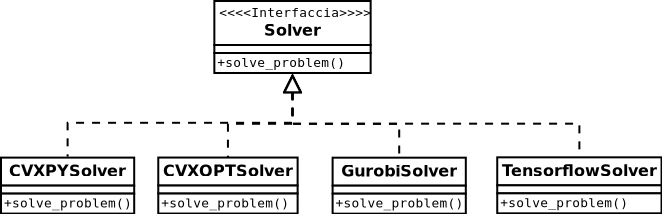
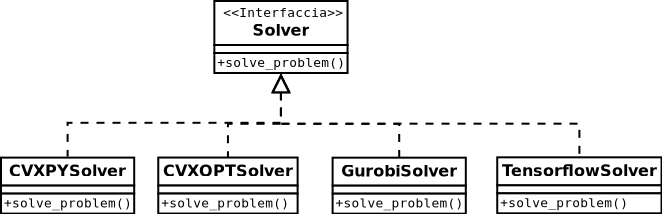
Correzioni Secondo Capitolo

diff --git a/tesi/Tesi.tex b/tesi/Tesi.tex
@@ -186,7 +186,7 @@ Formalmente il grado di verità è determinato da un'opportuna \textit{funzione 
 \noindent 
 %La $x$ rappresenta i predicati da valutare ed appartenenti a un insieme di predicati $U$. 
 dove la $\mu$ rappresenta il valore di appartenenza dell'elemento all'insieme fuzzy $A$ considerato ed è un valore reale compreso tra 0 e 1. 
-Per $\mu_A(x)$ pari a 1 l’elemento è certamente incluso nell’ insieme, per $\mu_A(x)$ pari a 0
+Per $\mu_A(x)$ pari a 1 l’elemento è certamente incluso nell’insieme, per $\mu_A(x)$ pari a 0
 l’elemento non è per niente incluso nell’ insieme (questi due valori corrispondono alla teoria classica degli insiemi), mentre per tutti i valori compresi tra 0 e 1 l’appartenenza può essere più o meno forte.
 
 \bigskip
@@ -270,7 +270,7 @@ Definiamo due insiemi fuzzy, $A$ e $B$ (ad esempio come in Figura \ref{fig:Insie
         }
         \caption{Insieme $B$}
     \end{subfigure}
-    \caption{Grafico delle funzioni di appartenenza degli insiemi fuzzy utlizzati per esemplificare le principali operazioni tra insiemi fuzzy.}
+    \caption{Grafico delle funzioni di appartenenza degli insiemi fuzzy utilizzati per esemplificare le principali operazioni tra insiemi fuzzy.}
     \label{fig:Insiemi Fuzzy}
 \end{figure}
 
@@ -317,7 +317,7 @@ L'unione $A \cup B$ di due insiemi fuzzy $A$ e $B$ risulta essere anch'essa un i
 
     \end{tikzpicture}
     }
-    \caption{Unione tra insiemi fuzzy. In viola viene rappresentata la funzione di apparteneza dell'unione degli insiemi $A$ e $B$ mostrati in Figura \ref{fig:Insiemi Fuzzy}.}
+    \caption{Unione tra insiemi fuzzy. In viola viene rappresentata la funzione di appartenenza dell'unione degli insiemi $A$ e $B$ mostrati in Figura \ref{fig:Insiemi Fuzzy}.}
     \label{fig:Unione_Insiemi_Fuzzy}   
 
 \end{figure}
@@ -473,7 +473,7 @@ Bisogna trovare lo \textit{Sweet spot} \cite{machine_learning_oreilly}, ovvero i
 \begin{figure}[ht]
     \centering
     \includegraphics[scale = 0.35]{images/sweet_spot.png}
-    \caption{Compromesso tra precisione nella predizione e complessità del modello \cite{figure_copyright}. Nell'asse delle ascisse è rappresentata la complessità del modello, mentre nell'asse delle ordinate la precisione nella predizione dei dati. La curva blu rappresenta la predizione sul training set, che tende ad essere più precisa più il modello è complesso. La curva verde rappresenta la predizione su nuovi set di dati, che come possiamo vedere tende a essere meno precisa quando il modello è troppo complesso e si adatta in maniera eccessiva al training set.}
+    \caption{Compromesso tra precisione nella predizione e complessità del modello \cite{figure_copyright}. Nell'asse delle ascisse è rappresentata la complessità del modello, mentre nell'asse delle ordinate la precisione nella predizione dei dati. La curva blu rappresenta la predizione sul training set, che tende a essere più precisa più il modello è complesso. La curva verde rappresenta la predizione su nuovi set di dati, che come possiamo vedere tende a essere meno precisa quando il modello è troppo complesso e si adatta in maniera eccessiva al training set.}
     \label{fig:sweet_spot}
 
 \end{figure}
@@ -528,7 +528,7 @@ Nel caso della regressione, la funzione è definita come segue:
 \end{equation*}
 
 \noindent dove \textit{n} è il numero di caratteristiche, $x_i$ sono le caratteristiche, $w_i$ i pesi da attribuire a esse, e $b$ un termine noto.
-Il valore $y$ ottenuto applicando la funzione lineare alle caratteristiche di un particolare caso rappresenta la predzione per l'etichetta corrispondente.
+Il valore $y$ ottenuto applicando la funzione lineare alle caratteristiche di un particolare caso rappresenta la predizione per l'etichetta corrispondente.
 
 Riprendendo l'esempio precedente, supponiamo di voler quantificare il numero di giorni necessari per guarire un paziente malato. Per semplicità supponiamo di avere come unica caratteristica l'età del paziente. In Figura \ref{fig:linear_regression} è rappresentato il dataset dei pazienti. \`E possibile tracciare una retta denominata \textit{retta di regressione} che approssima tutti i punti nel dataset.
 
@@ -564,7 +564,7 @@ I controlli sulle variabili sono spesso di tipo binario.
 
 \end{figure}
 
-Ad esempio supponiamo di voler distinguere un animale tra: falco, pinguino, delfino e orso. Nell'esempio in Figura \ref{fig:decision_tree} l'algoritmo parte dalla domanda ``Ha le piume?''. In questo modo abbiamo definito il primo nodo dell'albero. Sapendo che, in questo caso, i test previsti restituiscono un output binario, da questo primo nodo si diramano due sotto-alberi rapprensentati dalle categorie ``Ha le piume'' e ``Non ha le piume''. Mediante un'ulteriore domanda si possono distinguere gli animali. Per esempio seguendo la domanda ``Può volare?'', se la risposta è sì, si sta parlando del falco, ovvero l'unico animale tra i quattro che ha le piume e che può volare, altrimenti si tratta del pinguino. Seguendo questa logica è posssibile arrivare a fare delle predizioni. 
+Ad esempio supponiamo di voler distinguere un animale tra: falco, pinguino, delfino e orso. Nell'esempio in Figura \ref{fig:decision_tree} l'algoritmo parte dalla domanda ``Ha le piume?''. In questo modo abbiamo definito il primo nodo dell'albero. Sapendo che, in questo caso, i test previsti restituiscono un output binario, da questo primo nodo si diramano due sotto-alberi rappresentati dalle categorie ``Ha le piume'' e ``Non ha le piume''. Mediante un'ulteriore domanda si possono distinguere gli animali. Per esempio seguendo la domanda ``Può volare?'', se la risposta è sì, si sta parlando del falco, ovvero l'unico animale tra i quattro che ha le piume e che può volare, altrimenti si tratta del pinguino. Seguendo questa logica è possibile arrivare a fare delle predizioni. 
 L'esempio è chiaramente fittizio. Nella realtà i dati che vengono analizzati hanno spesso valori di tipo continuo, con test come ``\textit{x} è minore di \textit{k}?'', dove \textit{x} è la caratteristica considerata e \textit{k} una costante.
 
 I problemi di \textit{overfitting} e \textit{underfitting} sono problemi ricorrenti che si presentano anche nel caso degli alberi di decisione. Infatti se viene costruito un albero troppo dettagliato, e quindi con un elevato livello di profondità, il modello tende ad adattarsi in maniera eccessiva ai dati usati in fase di allenamento generando un problema di \textit{overfitting}.
@@ -608,7 +608,7 @@ Supponiamo di avere un dataset con oggetti appartenenti a due classi, come in Fi
     \label{fig:svm}
 \end{figure}
 
-Spesso succede che le classi da distinguere non siano linearmente separabili nello spazio in cui è definito il problema originale. Per risolvere questo problema si ricorre alle funzioni \textit{kernel} che sono in grado di mappare dei vettori dallo spazio originale ad uno spazio a dimensionalità più elevata, in cui le immagini risultano linearmente separabili.
+Spesso succede che le classi da distinguere non siano linearmente separabili nello spazio in cui è definito il problema originale. Per risolvere questo problema si ricorre alle funzioni \textit{kernel} che sono in grado di mappare dei vettori dallo spazio originale a uno spazio a dimensionalità più elevata, in cui le immagini risultano linearmente separabili.
 
 \subsection*{Approccio Non Supervisionato}
 Con \textit{Approccio Non Supervisionato} \cite{unsupervised_learning} ci riferiamo a una tecnica di apprendimento automatico che consiste nel fornire in input una serie di dati non etichettati ma che verranno raggruppati sulla base di caratteristiche comuni  per cercare di effettuare delle previsioni su input futuri.
@@ -644,7 +644,7 @@ Quando la macchina prende una decisione otterrà successivamente una “ricompen
 \chapter{Tecnologie e metodologie}
 \label{Capitolo 2}
 \section{\texorpdfstring{$\mu$}{mu}-learn}
-Nel capitolo precedente abbiamo visto alcune tecniche utilizzate nel Machine Learning. L’algoritmo che andremo a descrivere, denominato \textit{$\mu$-learn} e descritto nel dettaglio in \cite{mulearn}, si basa sull’ induzione di insiemi fuzzy e ricade nell’approccio supervisionato, ovvero quella tecnica che necessita di dati preventivamente valutati per effettuare predizioni. In questo caso la predizione è il grado di appartenenza.
+Nel capitolo precedente abbiamo visto alcune tecniche utilizzate nel Machine Learning. L’algoritmo che andremo a descrivere, denominato \textit{$\mu$-learn} e descritto nel dettaglio in \cite{mulearn}, si basa sull’ induzione di insiemi fuzzy e ricade nell’approccio supervisionato, ovvero quella tecnica che necessita di dati preventivamente valutati per effettuare predizioni. In questo caso la predizione è il grado di appartenenza a un insieme fuzzy.
 \bigskip
 
 Supponiamo di avere un campione $X = \{x_1,\dots,x_m\}$, e un insieme di gradi di appartenenza $ M = \{\mu_1,\dots,\mu_m\}$ associati a un generico insieme fuzzy $A$. L'obiettivo di \textit{$\mu$-learn} consiste nel determinare un'approssimazione di $A$ partendo dai valori contenuti in $X$ e $M$.
@@ -654,11 +654,11 @@ Il problema di apprendere $\mu_A$ può essere suddiviso in due parti:
     \item indurre i parametri della funzione di membership $\mu_A$.
 \end{itemize}
 
-\noindent Per fare ciò dobbiamo partire dalle seguenti ipotesi:
+\noindent Per fare ciò dobbiamo partire dalle seguenti ipotesi.
 \begin{itemize}
-    \item  Definiamo il \textit{core} di $A$ come l'insieme di tutti gli elementi dell'universo in corrispondenza dei quali il grado di appartenenza di $A$ è uguale a 1:
+    \item  Definiamo il \textit{core} di $A$ come l'insieme di tutti gli elementi dell'universo $U$ in corrispondenza dei quali il grado di appartenenza di $A$ è uguale a 1:
     \begin{equation*}
-        A_C = \{ x\in U \hspace{0,3cm} |\hspace{0,3cm} \mu_A(x) = 1 \}
+        A_C = \{ x\in U \hspace{0,3cm} |\hspace{0,3cm} \mu_A(x) = 1 \}.
     \end{equation*}
     \noindent Il core di $A$ si può approssimare come l'insieme degli elementi di $U$ le cui immagini mappate tramite una funzione $\Phi: U \to V$ sono incluse in un'ipersfera di centro $a$ e raggio $R$.
 
@@ -709,7 +709,7 @@ ovvero che la distanza della trasformazione di $x_i$ da $a$ è maggiore o uguale
 \begin{equation*}
     \xi_i \ge 0,
 \end{equation*}
-che è già incorporato nel vincolo (\ref{eq:vincolo_3}), e quindi il nostro $x_i$ sarà posizionato all'esterno della sfera.
+che è già incorporato nel vincolo (\ref{eq:vincolo_3}), e quindi il nostro $x_i$ sarà possibilmente posizionato all'esterno della sfera.
 
 Utilizzando la formulazione duale di Wolfe, quello che otteniamo è il seguente problema:
 \begin{equation}
@@ -730,7 +730,7 @@ sottoposto ai vincoli:
 
 \noindent dove $k$ è la funzione kernel associata alla mappatura nello spazio dell'immagine di $\Phi$ (ovvero $k(x_i,x_j) = \Phi(x_i)\cdot\Phi(x_j))$.
 
-Indicando con $^*$ il valore ottimale per una variabile, è possibile dimostrare che per ogni $x$ nel corrispondente dominio vale la seguente proprietà:
+Indicando con $^*$ il valore ottimale per una variabile, è possibile dimostrare che per ogni $x \in U$ vale la seguente proprietà:
 \begin{equation*}
 \begin{split}
     R^{2}(x) = k(x,x) \hspace{0,1cm}- \hspace{0,1cm}&2\displaystyle\sum_{i=1}^{m}(\alpha_{i}^{*}\mu_{i} - \beta_{i}^{*}(1-\mu_{i}))k(x,x_i)\hspace{0,1cm} + \\ 
@@ -742,9 +742,11 @@ Indicando con $^*$ il valore ottimale per una variabile, è possibile dimostrare
 In particolare, la maggior parte dei punti $x$ con un valore di membership $\mu_{A}(x) > \frac{1}{2}$ soddisfanno $R^2(x) \le R^2_1$ dove $R^2_1 = R^2(x_i)$ per qualunque vettore di supporto.
 Apprendere la funzione di membership richiede di trovare il giusto compromesso nella scelta del parametro $C$, così come nei parametri del kernel.
 
-\subsection*{Configurazione degli Iperparametri}
-Nel contensto del Machine Learning si parla spesso di iperparametri. Si definiscono iperparametri quei parametri utilizzati per aver un certo tipo di controllo sul processo di apprendimento. In altre parole, tutti i dati forniti dall'utente che influiscono sul design del modello sono considerati iperparametri. Un primo parametro da considerare è quello della scelta della funzione di kernel.
-Esistono diversi tipi di funzioni di kernel.
+\subsection*{Configurazione degli iperparametri}
+Nel contesto del Machine Learning si parla spesso di iperparametri. Si definiscono iperparametri quei parametri utilizzati per aver un certo tipo di controllo sul processo di apprendimento. 
+% In altre parole, tutti i dati forniti dall'utente che influiscono sul design del modello sono considerati iperparametri. 
+Un primo parametro da considerare è quello della scelta della funzione di kernel.
+Esistono diversi tipi di funzioni di kernel: quelli principalmente utilizzati sono elencati di seguito.
 
 \begin{itemize}
     \item \textbf{Kernel Lineare}. \`E uno dei più semplici e consiste nel prodotto scalare di due vettori:
@@ -752,7 +754,7 @@ Esistono diversi tipi di funzioni di kernel.
         k(x,y) = x \cdot y.
     \end{equation*}
 
-    \item  \textbf{Kernel Polinomiale}. Viene utilizzato per gestire problemi di suddivisione non lineare ed è definito come segue:
+    \item  \textbf{Kernel Polinomiale}. Viene utilizzato per gestire problemi non lineari ed è definito come segue:
     \begin{equation*}
         k(x,y) = (x \cdot y + c)^{d},
     \end{equation*}
@@ -762,7 +764,7 @@ Esistono diversi tipi di funzioni di kernel.
     \begin{equation*}
         k(x,y) = \exp{\bigg(-\frac{\|x-y\|^{2}}{2\sigma^{2}}\bigg)},
     \end{equation*}
-    \noindent dove $\sigma$ è la deviazione standard del kernel. Dato che questo è il kernel utilizzato durante gli esperimenti descritti nel Capitolo \ref{Captiolo 3}, $\sigma$ diventa un parametro chiave da considerare. Prendendo l'esemprio in Figura \ref{fig:parametro_sigma} e una funzione kernel, vediamo come la scelta del parametro $\sigma$ modifichi la forma della funzione di appartenenza. La funzione tratteggiata rappresenta una funzione di apparteneza fissata, dove sull'asse delle ascisse ci sono i valori di $x$, colorati in funzione del valore associato a questa funzione. La curva blu invece rappresenta la funzione di appartenenza appresa a partire dai punti.
+    \noindent dove $\sigma$ è la deviazione standard del kernel. Dato che questo è il kernel utilizzato durante gli esperimenti descritti nel Capitolo \ref{Captiolo 3}, $\sigma$ diventa un parametro chiave da considerare. Prendendo l'esempio in Figura \ref{fig:parametro_sigma} e una funzione kernel, vediamo come la scelta del parametro $\sigma$ modifichi la forma della funzione di appartenenza. La funzione tratteggiata rappresenta una funzione di appartenenza fissata, dove sull'asse delle ascisse ci sono i valori di $x$, colorati in funzione del valore associato a questa funzione. La curva blu invece rappresenta la funzione di appartenenza appresa a partire dai punti.
 
     \begin{figure}[h]
         \begin{subfigure}[t]{0.32\textwidth}
@@ -797,7 +799,7 @@ Esistono diversi tipi di funzioni di kernel.
 \end{itemize}
 
 
-\noindent Un secondo parametro da considerare è la constante $C$ che compare nella funzione obiettivo (\ref{eq:Problema_di_partenza}). Questa ha lo scopo di definire il costo dell'errore nella classificazione degli elementi durante la costruzione dell'ipersfera. Più $C$ è grande, più sarà elevato il costo dell'errore nel posizionamento delle immagini dei punti dentro o fuori l'ipersfera. Viceversa, più $C$ è piccola , più il costo dell'errore diminuisce. In Figura \ref{fig:parametro_C} vediamo come un determinato valore di $C$ ci permette di avere un errore quasi nullo (possiamo notare come nel grafico 14(\subref{fig:C_1}) la funzione di appartenenza appresa a partire dai punti si sovrappone quasi perfettamente con la funzione di apparteneza fissata), e all'aumentare di $C$ la funzione tende a diventare binaria.
+\noindent Un secondo parametro da considerare è la constante $C$ che compare nella funzione obiettivo (\ref{eq:Problema_di_partenza}). Questa ha lo scopo di definire il costo dell'errore nella classificazione degli elementi durante la costruzione dell'ipersfera. Più $C$ è grande, più sarà elevato il costo dell'errore nel posizionamento delle immagini dei punti dentro o fuori l'ipersfera. Viceversa, più $C$ è piccola, più il costo dell'errore diminuisce. In Figura \ref{fig:parametro_C} vediamo come un determinato valore di $C$ ci permette di avere un errore quasi nullo (possiamo notare come nel grafico della Figura 14(\subref{fig:C_1}) la funzione di appartenenza appresa a partire dai punti si sovrappone quasi perfettamente con la funzione di appartenenza fissata), e all'aumentare di $C$ la funzione tende a diventare binaria.
 
 \begin{figure}[h]
     \begin{subfigure}[t]{0.32\textwidth}
@@ -820,24 +822,24 @@ Esistono diversi tipi di funzioni di kernel.
         \caption{$C = 0.15 $}
         \label{fig:C_3}
     \end{subfigure}
-    \caption{Nelle figure è mostrato come all'aumentare di $C$ la funzione di appartenenza appresa tenda ad aumentare la sua larghezza, avvicinandosi sempre di più ad una funzione di appartenenza binaria.}
+    \caption{Nelle figure è mostrato come all'aumentare di $C$ la funzione di appartenenza appresa tenda ad aumentare la dimensione del \textit{core} dell'insieme, avvicinandosi sempre di più a una funzione di appartenenza binaria.}
     \label{fig:parametro_C}
 \end{figure}
 
 %ESEMPI DI KERNEL E I VARI PARAMETRI
 
 \section{Descrizione del problema}
-Nel paragrafo precendete abbiamo descritto un problema di ottimizzazione vincolata. In questo paragrafo vedremo com'è possibile costruirne un'implementazione per la risoluzione.
+Abbiamo appena descritto un problema di ottimizzazione vincolata. In questo paragrafo vedremo com'è possibile riformularlo in modo che risulti più facile risolverlo utilizzando delle librerie esistenti.
 
 \bigskip
 
-\noindent Ponendo $\chi_i = (\alpha_i\mu_i - \beta_i(1-\mu_i))$, il problema \ref{eq:problema_finale} può essere riscritto come:
+\noindent Ponendo $\chi_i = (\alpha_i\mu_i - \beta_i(1-\mu_i))$, il problema (\ref{eq:problema_finale}) può essere riscritto come:
 \begin{equation}
     \max \displaystyle\sum_{i=1}^{n}\chi_ik(x_ix_i) -\displaystyle\sum_{i,j=1}^{n}\chi_i\chi_j k(x_i,x_j),
 \label{eq:problema_finale_2}
 \end{equation}
 
-\noindent mentre i vincoli (\ref{eq:v1_problema_finale}) (\ref{eq:v2_problema_finale}) diventano:
+\noindent mentre i vincoli (\ref{eq:v1_problema_finale} -- \ref{eq:v2_problema_finale}) diventano:
 
 \begin{equation}
     \displaystyle\sum_{i=1}^{n}\chi_i = 1,
@@ -848,15 +850,15 @@ Nel paragrafo precendete abbiamo descritto un problema di ottimizzazione vincola
     \label{eq:v2_problema_finale_2}
 \end{equation}
 
-\noindent Come possiamo vedere, grazie a questa manipolazione matematica, quello che otteniamo è un problema di ottimizzazione convessa quadratico vincolato.
-Nell'ambito della risoluzione di questo tipo di problema in Python ci sono a disposizione diversi software che permettono di modellare e risolvere il problema.
+\noindent Come possiamo vedere, grazie a questa manipolazione matematica, quello che otteniamo è un problema di ottimizzazione convesso quadratico vincolato.
+In Python ci sono a disposizione diversi software che permettono di modellare e risolvere il problema.
 
-In particolare la risoluzione di questo problema viene implementata nella parte di ottimizzazione dell'algoritmo \textit{$\mu$-learn} \cite{mulearn_documentation}. Il modulo \textit{optimization} contiente l'implementazione di uno \textit{Strategy pattern} \cite{strategy_pattern}. Come mostrato nel diagramma UML in Figura \ref{fig:diagramma_uml}, la classe \textit{Solver} è l'interfaccia astratta che implementa il metodo \textit{solve}, il quale delega il processo di ottimizzazione al metodo astratto \textit{solve\_problem}, che viene implementato concretamente nelle diverse classi risolutrici.
+In particolare la risoluzione di questo problema viene implementata nella parte di ottimizzazione dell'algoritmo \textit{$\mu$-learn} \cite{mulearn_documentation}. Il modulo \textit{optimization} contiene l'implementazione di uno \textit{Strategy pattern} \cite{strategy_pattern}. Come mostrato nel diagramma di classe UML in Figura \ref{fig:diagramma_uml}, la classe \textit{Solver} è l'interfaccia astratta che implementa il metodo \textit{solve}, il quale delega il processo di ottimizzazione al metodo astratto \textit{solve\_problem}, che viene implementato concretamente nelle diverse classi risolutrici.
 
 \begin{figure}
     \includegraphics[scale=0.6]{images/diagramma_uml.png}
     \centering
-    \caption{Diagramma UML dello Strategy pattern implementato nel modulo di ottimizzazione dell'algoritmo $\mu$-learn.}
+    \caption{Diagramma di classe UML dello Strategy pattern implementato nel modulo di ottimizzazione dell'algoritmo $\mu$-learn.}
     \label{fig:diagramma_uml}
 \end{figure}
 
@@ -872,7 +874,6 @@ Di seguito vengono descritti i software con cui sono stati implementati i divers
 
 \section{CVXOPT}
 CVXOPT è un software gratuito utilizzato per l'ottimizzazione convessa basato su Python. Può essere utilizzato tramite un interprete interattivo in Python, attraverso riga di comando eseguendo script in Python, o integrandolo in altre applicazioni per l'ottimizzazione convessa grazie ai moduli di estensione. 
-%\cite{CVXOPT}
 
 Il framework di CVXOPT per la risoluzione di problemi di ottimizzazione quadratica vincolata si aspetta il problema formulato secondo la forma standard:
 \begin{equation*}
@@ -884,9 +885,9 @@ Il framework di CVXOPT per la risoluzione di problemi di ottimizzazione quadrati
 \end{equation*}
 
 \noindent dove $x^{T}$ denota la trasposta di $x$, e $Gx \preceq h$ indica che la diseguaglianza è applicata elemento per elemento tra i vettori $Gx$ e $h$. 
-CVXOPT per risolvere un problema di questo tipo richiede i parametri ${P,q,G,h,A,b}$; dove $P$ e $q$ sono richiesti, gli altri opzionali. Notiamo che il vettore contenente le variabili $x$ non viene passato al solver, ma viene definito implicitamente attraverso i parametri dati, per questo è essenziale che l'ordine delle variabili stesse sia mantenuto per i parametri realtivi (ad esempio $q_i$, $h_i$,$b_i$ devono corrispondere alla variabile $x_i$).
+Per risolvere un problema di questo tipo, CVXOPT richiede i parametri ${P,q,G,h,A,b}$; dove $P$ e $q$ sono richiesti, gli altri opzionali. Notiamo che il vettore contenente le variabili $x$ non viene passato al solver, ma viene definito implicitamente attraverso i parametri dati, per questo è essenziale che l'ordine delle variabili stesse sia mantenuto per i parametri relativi (ad esempio $q_i$, $h_i$,$b_i$ devono corrispondere alla variabile $x_i$).
 
-Il nostro problema (\ref{eq:problema_finale_2}) può essere riscritto nel seguente modo per rispettare la forma standard: 
+Il problema (\ref{eq:problema_finale_2} -- \ref{eq:v2_problema_finale_2}) può essere riscritto nel seguente modo per rispettare la forma standard: 
 \begin{equation}
     \min \displaystyle\sum_{i,j=1}^{n}\chi_i\chi_j k(x_i,x_j) - \displaystyle\sum_{i=1}^{n}\chi_ik(x_ix_i),
     \label{eq:forma_standard}
@@ -968,16 +969,16 @@ sottoposto ai seguenti vincoli:
 %     \end{bmatrix}
 % \end{equation*}
 
-\noindent \'E facile notare che il vettore delle variabili è definito da $\begin{bmatrix} \chi_1 \\ \vdots \\ \chi_n \end{bmatrix}$, e che i vincoli di diseguaglianza (\ref{eq:vincolo_1_forma_standard}) (\ref{eq:vincolo_2_forma_standard}) sono riportati in una singola matrice $G$ nella forma standard. Una volta ottenute queste matrici è facile trasporle in codice, utilizzando anche librerie come \textit{numpy}, così da permettere a CVXOPT di risolvere il problema.
+\noindent \`E facile notare che il vettore delle variabili è definito da $[\chi_1 \cdots \chi_n]^{T}$, e che i vincoli di diseguaglianza (\ref{eq:vincolo_1_forma_standard}) (\ref{eq:vincolo_2_forma_standard}) sono riportati in una singola matrice $G$ nella forma standard. Una volta ottenute queste matrici è facile trasporle in codice, utilizzando anche librerie come \textit{numpy}, così da permettere a CVXOPT di risolvere il problema.
 
 
 \section{CVXPY}
-L'ottimizzazione convessa ha molte applicazioni in diversi campi, tra cui anche il Machine Learning. Per utilizzare l'ottimizzazione convessa in un'applicazione spesso si ricorre a Solver che richiedono di porre il problema nella forma standard (come CVXOPT). Un alternativa è utilizzare un \textit{domain-specific language} (\textit{DSL}) per l'ottimizzazione convessa, che permette all'utente di specificare il problema in una maniera più naturale che rispecchia il linguaggio matematico, e successivamente questa specificazione viene convertita nella forma standard dal solver. CVX \cite{cvx} è un esempio tra i vari DSL esistenti.
-CVXPY \cite{CVXPY_1} \cite{CVXPY_2} è un nuovo domain-specific language per i problemi di ottimizzazione convessa. Permette di esprimere il problema in un linguaggio naturale piuttosto che nella restrittiva forma standard richiesta da altri solver. \`E basato su CVX, ma introduce nuove funzionalità. CVXPY è semplicemente una libreria in Python che permette di combinare facilmente l'ottimizzazone convessa con le funzionalità ad alto livello di Python come ad esempio il parallelismo e la programmazione ad oggetti.
+L'ottimizzazione convessa ha molte applicazioni in diversi campi, tra cui anche il Machine Learning. Per utilizzare l'ottimizzazione convessa in un'applicazione spesso si ricorre a Solver che richiedono di porre il problema nella forma standard (come CVXOPT). Un'alternativa è utilizzare un \textit{domain-specific language} (\textit{DSL}) per l'ottimizzazione convessa, che permette all'utente di specificare il problema in una maniera più naturale che rispecchia il linguaggio matematico, e successivamente questa specificazione viene convertita nella forma standard dal solver. CVX \cite{cvx} è un esempio tra i vari DSL esistenti.
+CVXPY \cite{CVXPY_1} \cite{CVXPY_2} è un nuovo domain-specific language per i problemi di ottimizzazione convessa. Permette di esprimere il problema in un linguaggio naturale piuttosto che nella restrittiva forma standard richiesta da altri solver. \`E basato su CVX, ma introduce nuove funzionalità. CVXPY è semplicemente una libreria in Python che permette di combinare facilmente l'ottimizzazione convessa con le funzionalità ad alto livello di Python, come ad esempio il parallelismo e la programmazione a oggetti.
 
 La sintassi di CVXPY è molto semplice, di seguito un'esemplificazione di come può essere costruito il nostro problema (\ref{eq:problema_finale_2}):
-\begin{figure}[H]
 
+\begin{figure}[H]
     \begin{minted}{python}
 
         chis = Variable(n)
@@ -986,11 +987,11 @@ La sintassi di CVXPY è molto semplice, di seguito un'esemplificazione di come p
         problem = Problem(objective, constraints)
         
         
-        \end{minted}
+    \end{minted}
 \end{figure}
 
-\noindent dove $q.T$ indica la trasposta della matrice $q$, e il simbolo $@$ è l'operatore di moltiplicazione tra matrici in Python. Come possiamo vedere, il problema diventa molto facilmente leggibile a livello utente, riuscendo ad individuare subito i protagonisti in gioco, quali le variabili, la funzione obiettivo, i vincoli e il problema finale. In realtà per quanto riguarda i vincoli, si possono riportare anche uno ad uno senza necessariamente ricorrere all'uso delle matrici.
-Come impostazioni di default, CVXPY chiama il solver più appropriato per il problema. Nel caso della programmazione quadratica CVXPY utilizza OSQP \cite{osqp}, utilizzato principalmente anche negli esperimenti del Capitolo \ref{Captiolo 3}.
+\noindent dove $q.T$ indica la trasposta della matrice $q$, e il simbolo $@$ è l'operatore di moltiplicazione tra matrici in Python. Come possiamo vedere, il problema diventa molto facilmente leggibile a livello utente, riuscendo a individuare subito i protagonisti in gioco, quali le variabili, la funzione obiettivo, i vincoli e il problema finale. In realtà, i vincoli si possono riportare anche uno a uno senza necessariamente ricorrere all'uso delle matrici.
+Come impostazioni di default, CVXPY invoca il solver più appropriato per il problema considerato. Nel caso della programmazione quadratica CVXPY utilizza OSQP \cite{osqp}, utilizzato principalmente anche negli esperimenti del Capitolo \ref{Captiolo 3}.
 
 
 
@@ -999,26 +1000,26 @@ Come impostazioni di default, CVXPY chiama il solver più appropriato per il pro
 
 \section{Gurobi}
 Gurobi \cite{gurobi} è un software commerciale, disponibile con licenza accademica, utilizzato per la risoluzione di problemi di ottimizzazione. Nato nel 2008, prende il nome dai suoi fondatori: Zonghao \textbf{Gu}, Edward \textbf{Ro}thberg and Robert \textbf{Bi}xby. Gurobi supporta una grande varietà di linguaggi di programmazione e modellazione, tra cui anche Python, al quale, grazie alle specifiche librerie, riesce a portare una nuova sintassi per creare modelli.
-Infatti nel modulo \textit{optimization} di $\mu-learn$ \cite{mulearn_documentation} viene creato un ambiente che rappresenta perfettamente il problema matematico che vogliamo risolvere.
-\begin{figure}[H]
-    \includegraphics[scale = 0.25]{images/gurobi.jpg}
-    \centering
-    \caption{Logo d Gurobi}
-    \label{fig:gurobi_logo}
-\end{figure}
+Infatti nel modulo \textit{optimization} di \textit{$\mu$-learn} \cite{mulearn_documentation} viene creato un ambiente che rappresenta perfettamente il problema matematico che vogliamo risolvere.
+% \begin{figure}[H]
+%     \includegraphics[scale = 0.25]{images/gurobi.jpg}
+%     \centering
+%     \caption{Logo d Gurobi}
+%     \label{fig:gurobi_logo}
+% \end{figure}
 
-\noindent A differenza dei solver gratuiti, Gurobi può essere più performante e veloce, sempre a seconda del contesto di ottimizzazione. Questo poiché spesso i solver gratuiti tendono a raggiungere i limiti di tempo previsti dal solver prima di aver effettivamente ottimizzato il problema, e quindi in alcuni casi dare risultati non propriamente corretti. Grazie all'affidabilità e la performance data da questo solver, viene utilizzato come metro di paragone per gli esperimenti del Capitolo \ref{Captiolo 3}.
+\noindent Gurobi può essere più performante e veloce dei solver gratuiti, sempre a seconda del contesto di ottimizzazione. Questo poiché spesso i solver gratuiti tendono a raggiungere i limiti di tempo previsti dal solver prima di aver effettivamente ottimizzato il problema, e quindi in alcuni casi dare risultati non propriamente corretti. Grazie all'affidabilità e la performance data da questo solver, viene utilizzato come metro di paragone per gli esperimenti del Capitolo \ref{Captiolo 3}.
 
 \section{TensorFlow} %TensorFlow
 TensorFlow \cite{tensorflow2015-whitepaper} è un software gratuito e open source utilizzato per machine learning e intelligenza artificiale. Inizialmente sviluppato dal team di Google Brain per un uso interno a Google, nel 2015 è stato rilasciato sotto una licenza Apache.
-\begin{figure}[H]
-    \includegraphics[scale = 0.3]{images/TensorFlow_Logo.png}
-    \centering
-    \caption{Logo di TensorFlow}
-    \label{fig:tensor_flow_logo}
-\end{figure}
+% \begin{figure}[H]
+%     \includegraphics[scale = 0.3]{images/TensorFlow_Logo.png}
+%     \centering
+%     \caption{Logo di TensorFlow}
+%     \label{fig:tensor_flow_logo}
+% \end{figure}
 
-\noindent TensorFlow permette agli sviluppatori di creare dei \textit{grafi di dataflow}, ossia delle strutture che descrivono come i dati si muovono attraverso un grafo, o una serie di nodi. Ogni nodo nel grafo rappresenta un'operazione matematica, e ogni connessione tra i nodi è un array multidimensionale di dati, o meglio chiamati \textit{tensori}. TensorFlow fornisce tutto il necessario per la costruzione di questo grafo attraverso il linguaggio di programmazione Python. Nodi e tensori in TensorFlow sono oggetti in Python, e le applicazioni in TensorFlow sono applicazioni in Python.
+\noindent TensorFlow permette agli sviluppatori di creare dei \textit{grafi di dataflow}, ossia delle strutture che descrivono una computazione. Ogni nodo nel grafo rappresenta un'operazione matematica, e ogni connessione tra i nodi è un array multidimensionale di dati, chiamato \textit{tensore}. TensorFlow fornisce tutto il necessario per la costruzione di questo grafo attraverso il linguaggio di programmazione Python. Nodi e tensori in TensorFlow sono oggetti in Python, e le applicazioni in TensorFlow sono applicazioni in Python.
 Grazie a queste librerie è possibile costruire un modello per il nostro problema (\ref{eq:forma_standard}).
 
 %\subsection{Rilassamento Lagrangiano}
@@ -1032,6 +1033,9 @@ Grazie a queste librerie è possibile costruire un modello per il nostro problem
 Spiegare come sono stati costruiti ed eventuali esperimenti
 Cercare un filo logico tra gli esperimenti, esperimenti miei e perché li ho fatti così.
 \section{Esperimenti a confronto}
+% Piccola Intro
+% Specificare Macchina e Dataset Utilizzati
+% Librerie Utilizzate e spiegate
 \subsection{CVXPY}
 \subsection{CVXOPT}
 \subsection{TensorFlow}
